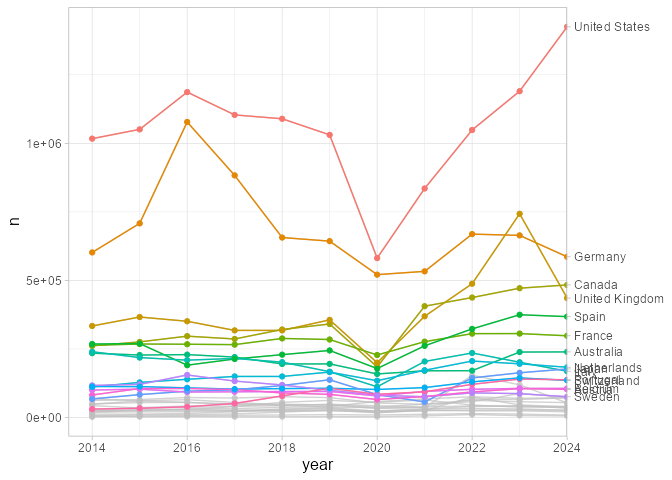
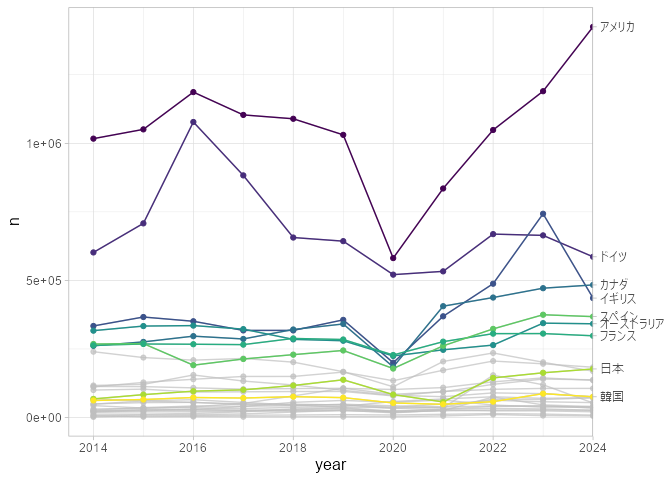
Tweak

diff --git a/README.md b/README.md
@@ -29,11 +29,63 @@ d <- readr::read_csv(
     ℹ Specify the column types or set `show_col_types = FALSE` to quiet this message.
 
 ``` r
+unique(d$`Reference area`)
+```
+
+     [1] "Belgium"         "Czechia"         "Estonia"         "Finland"        
+     [5] "France"          "Germany"         "Israel"          "Italy"          
+     [9] "Lithuania"       "Luxembourg"      "Mexico"          "Netherlands"    
+    [13] "Norway"          "Portugal"        "Slovak Republic" "Slovenia"       
+    [17] "Spain"           "Switzerland"     "Ireland"         "Sweden"         
+    [21] "New Zealand"     "Canada"          "Japan"           "Korea"          
+    [25] "United Kingdom"  "United States"   "Australia"       "Denmark"        
+    [29] "Austria"        
+
+``` r
 d_summarised <- d |>
   group_by(
-    area = `Reference area`,
+    area = recode(
+      `Reference area`,
+      "Belgium" = "ベルギー",
+      "Czechia" = "チェコ",
+      "Estonia" = "エストニア",
+      "Finland" = "フィンランド",
+      "France" = "フランス",
+      "Germany" = "ドイツ",
+      "Israel" = "イスラエル",
+      "Italy" = "イタリア",
+      "Lithuania" = "リトアニア",
+      "Luxembourg" = "ルクセンブルク",
+      "Mexico" = "メキシコ",
+      "Netherlands" = "オランダ",
+      "Norway" = "ノルウェー",
+      "Portugal" = "ポルトガル",
+      "Slovak Republic" = "スロバキア",
+      "Slovenia" = "スロベニア",
+      "Spain" = "スペイン",
+      "Switzerland" = "スイス",
+      "Ireland" = "アイルランド",
+      "Sweden" = "スウェーデン",
+      "New Zealand" = "ニュージーランド",
+      "Canada" = "カナダ",
+      "Japan" = "日本",
+      "Korea" = "韓国",
+      "United Kingdom" = "イギリス",
+      "United States" = "アメリカ",
+      "Australia" = "オーストラリア",
+      "Denmark" = "デンマーク",
+      "Austria" = "オーストラリア"
+    ),
     year = TIME_PERIOD,
-    type = recode(`Entry category`, "Accompanying family of workers" = "Family")
+    type = fct_recode(
+      `Entry category`,
+      "その他" = "Other",
+      "自由移動" = "Free movements",
+      "労働" = "Work",
+      "人道" = "Humanitarian",
+      "家族" = "Family",
+      "帯同家族" = "Accompanying family of workers",
+    )
   ) |>
   summarise(n = sum(OBS_VALUE, na.rm = TRUE), .groups = "drop")
 ```
@@ -49,15 +101,31 @@ ggplot(d_by_country, aes(year, n, colour = area)) +
   geom_line() +
   geom_point() +
   gghighlight::gghighlight(
-    sum(n),
-    max_highlight = 15L,
+    area %in%
+      c(
+        "アメリカ",
+        "ドイツ",
+        "カナダ",
+        "イギリス",
+        "スペイン",
+        "オーストラリア",
+        "フランス",
+        "韓国",
+        "日本"
+      ),
     line_label_type = "sec_axis"
   ) +
+  scale_color_viridis_d() +
   theme_light() +
   theme(
     text = element_text(size = 12)
   )
 ```
+
+    Warning: Tried to calculate with group_by(), but the calculation failed.
+    Falling back to ungrouped filter operation...
+    Tried to calculate with group_by(), but the calculation failed.
+    Falling back to ungrouped filter operation...
 
     label_key: area
 
@@ -70,12 +138,12 @@ d_pct <- d_summarised |>
   filter(
     area %in%
       c(
-        "United States",
-        "Germany",
-        "United Kingdom",
-        "Canada",
-        "Korea",
-        "Japan"
+        "アメリカ",
+        "ドイツ",
+        "イギリス",
+        "カナダ",
+        "韓国",
+        "日本"
       )
   ) |>
   mutate(`%` = n / sum(n), .by = c(area, year))
@@ -85,11 +153,18 @@ ggplot(d_pct, aes(type, `%`, colour = year, group = factor(year))) +
   see::coord_radar() +
   facet_wrap(vars(area)) +
   scale_y_continuous(labels = scales::label_percent()) +
+  scale_colour_binned(breaks = 2014:2025) +
   theme_minimal() +
   theme(
-    text = element_text(size = 12),
+    text = element_text(size = 10),
     axis.title = element_blank(),
-    strip.text = element_text(size = 15, face = "bold")
+    strip.text = element_text(size = 15, face = "bold"),
+    legend.position = "bottom",
+    legend.title.position = "top",
+    legend.text = element_text(angle = -30, hjust = 0),
+    legend.key.width = unit(0.1, "npc"),
+    legend.key.height = unit(0.015, "npc"),
+    panel.spacing = unit(0.1, "npc"),
   )
 ```
 
